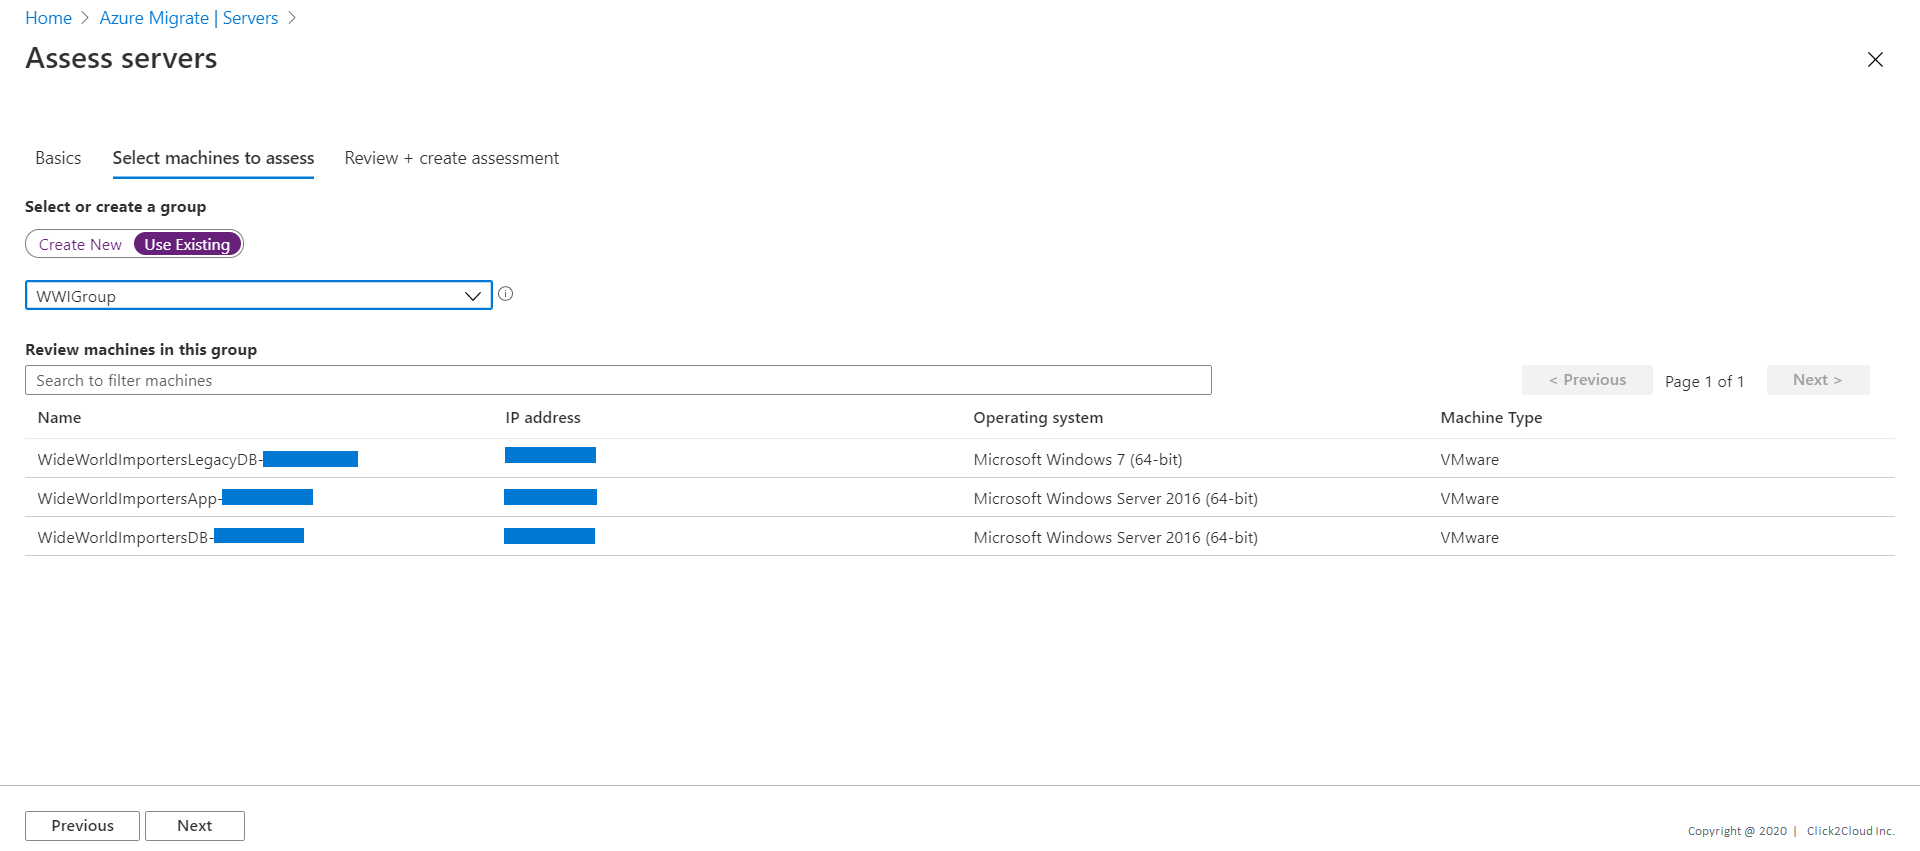
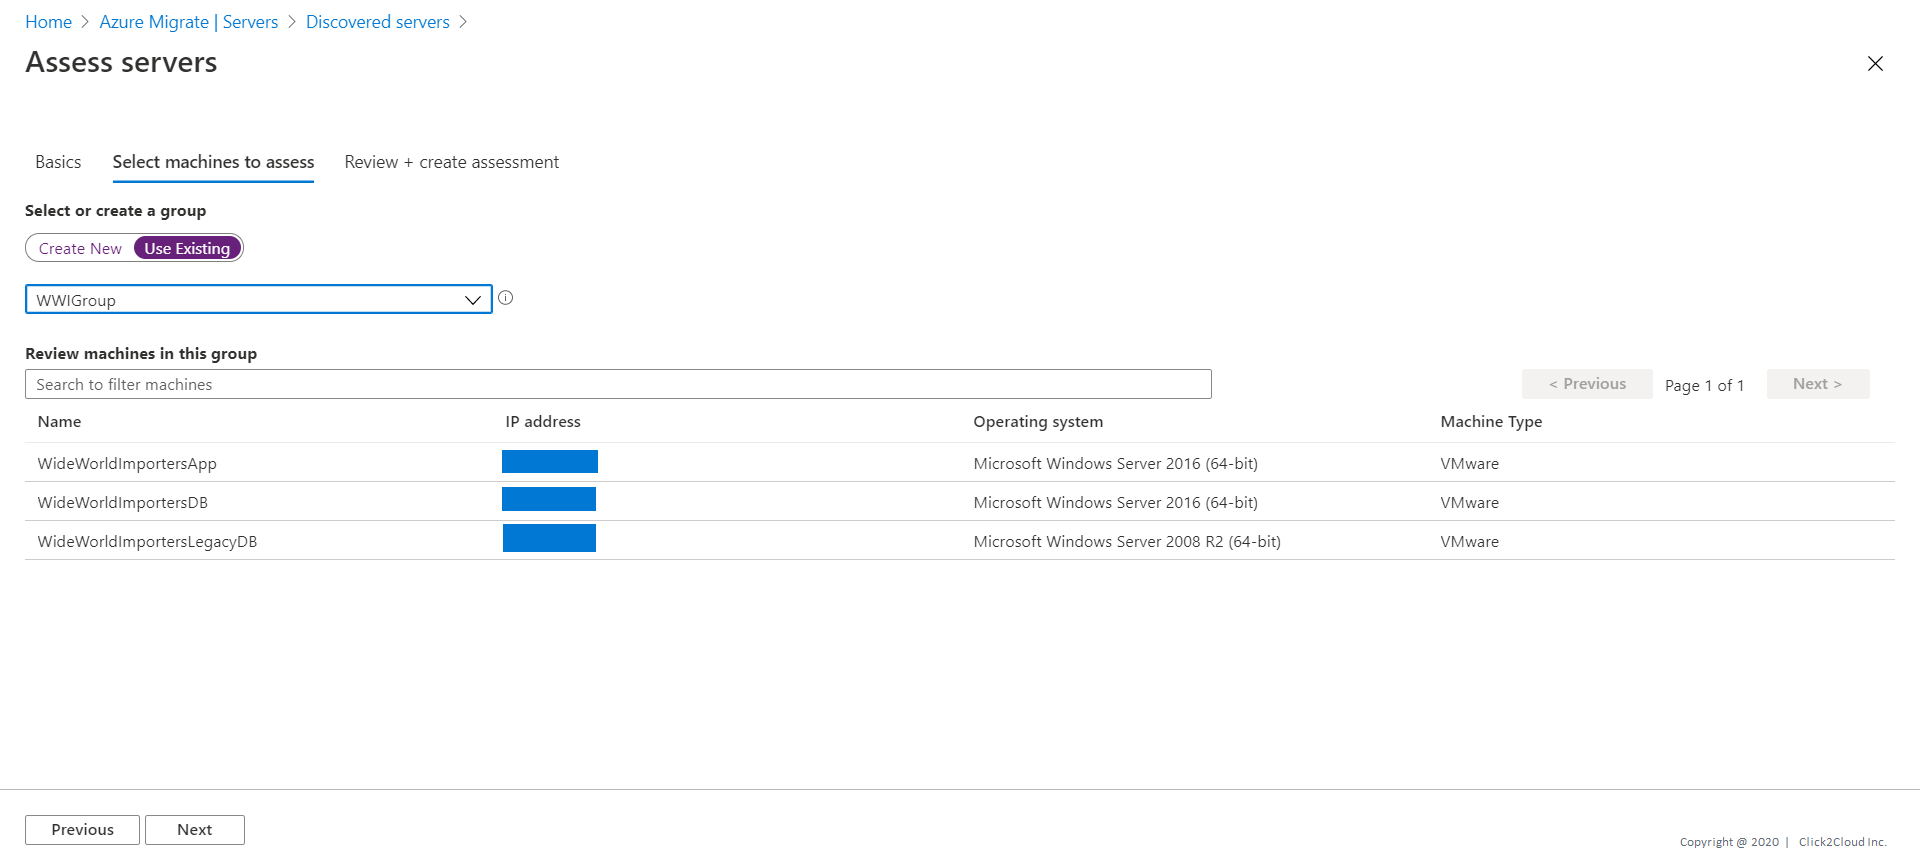
Changes for SQL 2008 R2 and Windows Server 2008 R2

diff --git a/prerequisites/os/windows2008R2-template-creation.md b/prerequisites/os/windows2008R2-template-creation.md
@@ -1,0 +1,229 @@
+# Steps for Windows Server 2008 R2 Template Creation
+
+1. Download Windows Server 2008 R2 ISO from [here](https://software-download.microsoft.com/download/pr/Windows_Server_2016_Datacenter_EVAL_en-us_14393_refresh.ISO)
+
+2. Upload it to your VMware vCenter.
+
+    **Procedure**  
+    1. Click **Storage** in the VMware Host Client inventory and click **Datastores**.  
+    
+    <p><kbd>
+        <img src="../../images/prerequisites/vsphere-client-inventory-storage.png">
+    </kbd></p>
+    
+    2. Click **Datastore browser**.  
+    
+    <p><kbd>
+        <img src="../../images/prerequisites/datastore-browser1.PNG">
+    </kbd></p>
+    
+    3. Select the datastore that you want to store the file on.  
+    4. **(Optional)** Click **New Folder** to create a new datastore directory to store the file.  
+    5. Select the target folder and click **Upload Files**.  
+    6. Locate the item that you want to upload from your local computer and click **Open**.  
+    7. The file uploads to the datastore that you selected.  
+    8. **(Optional)** Refresh the datastore file   browser to see the uploaded file on the list.
+
+3. Create VM using the uploaded ISO file.
+
+    **Procedure**  
+    1. Click **VMs and Templates** in the VMware Host Client inventory, click **Actions** and select **New Virtual Machine**.  
+    
+    <p><kbd>
+        <img src="../../images/prerequisites/vsphere-client-inventory-vm.png">
+    </kbd></p>
+    
+    <p><kbd>
+        <img src="../../images/prerequisites/vm-creation1.PNG">
+    </kbd></p>
+    
+    2. On the Select a creation type page, select **Create a new virtual machine** and click **Next**.  
+    
+    <p><kbd>
+        <img src="../../images/prerequisites/vm-creation2.PNG">
+    </kbd></p>
+    
+    3. On the Select a name and folder page, enter a unique name for the virtual machine and select a deployment location.     
+    4. On the Select a compute resource page, select the host, cluster, resource pool, or vApp where the virtual machine will run and click **Next**.  
+    
+    <p><kbd>
+        <img src="../../images/prerequisites/vm-creation3.PNG">
+    </kbd></p>
+    
+    5. On the Select storage page, choose the storage type, the storage policy, and a datastore or datastore cluster where you have uploaded ISO file in Step 2. 
+    <p><kbd>
+        <img src="../../images/prerequisites/vm-creation4.PNG">
+    </kbd></p> 
+    
+    6. On the Select compatibility page, select the virtual machine compatibility with ESXi host versions and click **Next**.  
+         
+    7. On the Select a guest OS page, select the guest OS family as *Windows* and version as *Microsoft Windows Server 2008 R2 (64-bit)* and click **Next**.  
+    
+    <p><kbd>
+        <img src="../../images/prerequisites/vm-creation5-windows2016.PNG">
+    </kbd></p> 
+    
+    8. On the Customize hardware page, configure the virtual machine hardware and options, in *New CD/DVD Drive* option select option for *Datastore ISO File* and choose the ISO file uploaded in Step 2 and click **Next**.  
+    
+    <p><kbd>
+        <img src="../../images/prerequisites/vm-creation6.PNG">
+    </kbd></p> 
+    
+    9. On the Ready to complete page, review the details and click **Finish**.  
+    
+    <p><kbd>
+        <img src="../../images/prerequisites/vm-creation7.PNG">
+    </kbd></p> 
+    
+    10. The virtual machine appears in the vSphere Client inventory.  
+    
+4. After the virtual machine is created, you have to install Windows Server 2008 R2 OS on it.  
+    **Installation Steps**
+    1. At the first screen, choose your Language, Time & currency format and the Keyboard or input method and click **Next**.
+    
+    <p><kbd>
+        <img src="../../images/prerequisites/windows2008R2-os-installation/1.png">
+    </kbd></p>
+    
+    2. Select **Install Now**.
+    
+    <p><kbd>
+        <img src="../../images/prerequisites/windows2008R2-os-installation/2.png">
+    </kbd></p>
+    
+    3. Choose to install the **Windows Server 2008 R2 Standard (Full Installation)**. 
+    
+    <p><kbd>
+        <img src="../../images/prerequisites/windows2008R2-os-installation/3.png">
+    </kbd></p>
+    
+    4. Accept the License terms and click **Next**.
+    
+    <p><kbd>
+        <img src="../../images/prerequisites/windows2008R2-os-installation/4.png">
+    </kbd></p>
+    
+    5. Provided that it is a new installation, choose **Custom: Install Windows**.
+    
+    <p><kbd>
+        <img src="../../images/prerequisites/windows2008R2-os-installation/5.png">
+    </kbd></p>
+    
+    6. Then select the disk to install the OS and click **Next**.
+    
+    <p><kbd>
+        <img src="../../images/prerequisites/windows2008R2-os-installation/6.png">
+    </kbd></p>
+    
+    7. Let Windows setup to copy the required files and to finish the installation.
+    
+    <p><kbd>
+        <img src="../../images/prerequisites/windows2008R2-os-installation/7.png">
+    </kbd></p>
+    
+    8. After a few restarts you will be prompted to specify a password for the (standard) Administrator account. Type a password and click **Next**.
+    
+    <p><kbd>
+        <img src="../../images/prerequisites/windows2008R2-os-installation/10.png">
+    </kbd></p>
+    
+    10. After you have finished installing the operating system and logged in with a Windows Administrator account, open the VM menu and click Install VMware Tools.  
+    
+    <p><kbd>
+        <img src="../../images/prerequisites/windows2016-os-installation/tools1.png">
+    </kbd></p>
+    
+    You will then see that the virtual DVD of VMware Tools has been loaded into VMs DVD drive. Tap on the message that will appear to continue. Alternatively, if the message is gone, open File Explorer, enter the contents of the DVD and run Setup.exe.
+    
+    Run setup64.exe to start the process.
+    
+    <p><kbd>
+        <img src="../../images/prerequisites/windows2016-os-installation/tools2.png">
+    </kbd></p>
+    
+    Click **Next** to continue.
+    
+    In a typical installation of a VM, select Typical and then Next to continue. For more advanced customization, select Complete or Custom.
+    
+    <p><kbd>
+        <img src="../../images/prerequisites/windows2016-os-installation/tools3.png">
+    </kbd></p>
+    
+    Click the Install button to continue.
+    
+    <p><kbd>
+        <img src="../../images/prerequisites/windows2016-os-installation/tools4.png">
+    </kbd></p>
+    
+    The VMware Tools installation process is in progress. Wait for it to finish.
+    
+    <p><kbd>
+        <img src="../../images/prerequisites/windows2016-os-installation/tools5.png">
+    </kbd></p>
+    
+    Finally, click **Finish** to finish the process.
+    
+    <p><kbd>
+        <img src="../../images/prerequisites/windows2016-os-installation/tools6.png">
+    </kbd></p>
+    
+    VMware Tools will need to restart the VM in order to fully complete the installation of VMware Tools. Click **Yes** to continue.
+    
+    11. Open PowerShell and paste the following commands:
+    - winrm set winrm/config/service '@{AllowUnencrypted="true"}'
+    - winrm set winrm/config/service/auth '@{Basic="true"}'
+    
+    12. Open the Windows Explorer and access the folder:  C:\Windows\System32\Sysprep 
+    Run **sysprep.exe**
+    
+    <p><kbd>
+        <img src="../../images/prerequisites/windows2016-os-installation/sysprep1.jpg">
+    </kbd></p>
+     
+    On the Sysprep application screen, perform the following configuration:
+        - System Cleanup Action - Enter System Out-of-Box Experience (OOBE)
+        - Generalize - Yes
+        - Shutdown Options - Shutdown
+    
+    <p><kbd>
+        <img src="../../images/prerequisites/windows2016-os-installation/sysprep2.jpg">
+    </kbd></p>
+    
+    13. Power On the VM, select Language and set password.
+        
+5. Create a template using the VM.
+
+    **Procedure**  
+    1. Click **VMs and Templates** in the VMware Host Client inventory. 
+    
+    <p><kbd>
+        <img src="../../images/prerequisites/vsphere-client-inventory-vm.png">
+    </kbd></p>
+     
+    2. Right click on the VM created in Step 4 and select **Clone > Clone to Template**.
+    
+    <p><kbd>
+        <img src="../../images/prerequisites/template1.PNG">
+    </kbd></p>
+    
+    3. On the Select a name and folder page, enter a name for the template and select a data center or a folder in which to deploy it.
+    
+    <p><kbd>
+        <img src="../../images/prerequisites/template2.PNG">
+    </kbd></p>
+    
+    4. On the Select a compute resource, select a host or a cluster resource for the template.
+    
+    <p><kbd>
+        <img src="../../images/prerequisites/template3.PNG">
+    </kbd></p>
+    
+    5. On the Select storage page, select the datastore or datastore cluster in which to store the virtual machine configuration files and all of the virtual disks. Click Next.
+    
+    6. On the Ready to complete page, review the template settings and click **Finish**.  
+    
+     <p><kbd>
+        <img src="../../images/prerequisites/template4.PNG">
+    </kbd></p>
+    
+    The progress of the clone task appears in the Recent Tasks pane. When the task completes, the template appears in the inventory.
